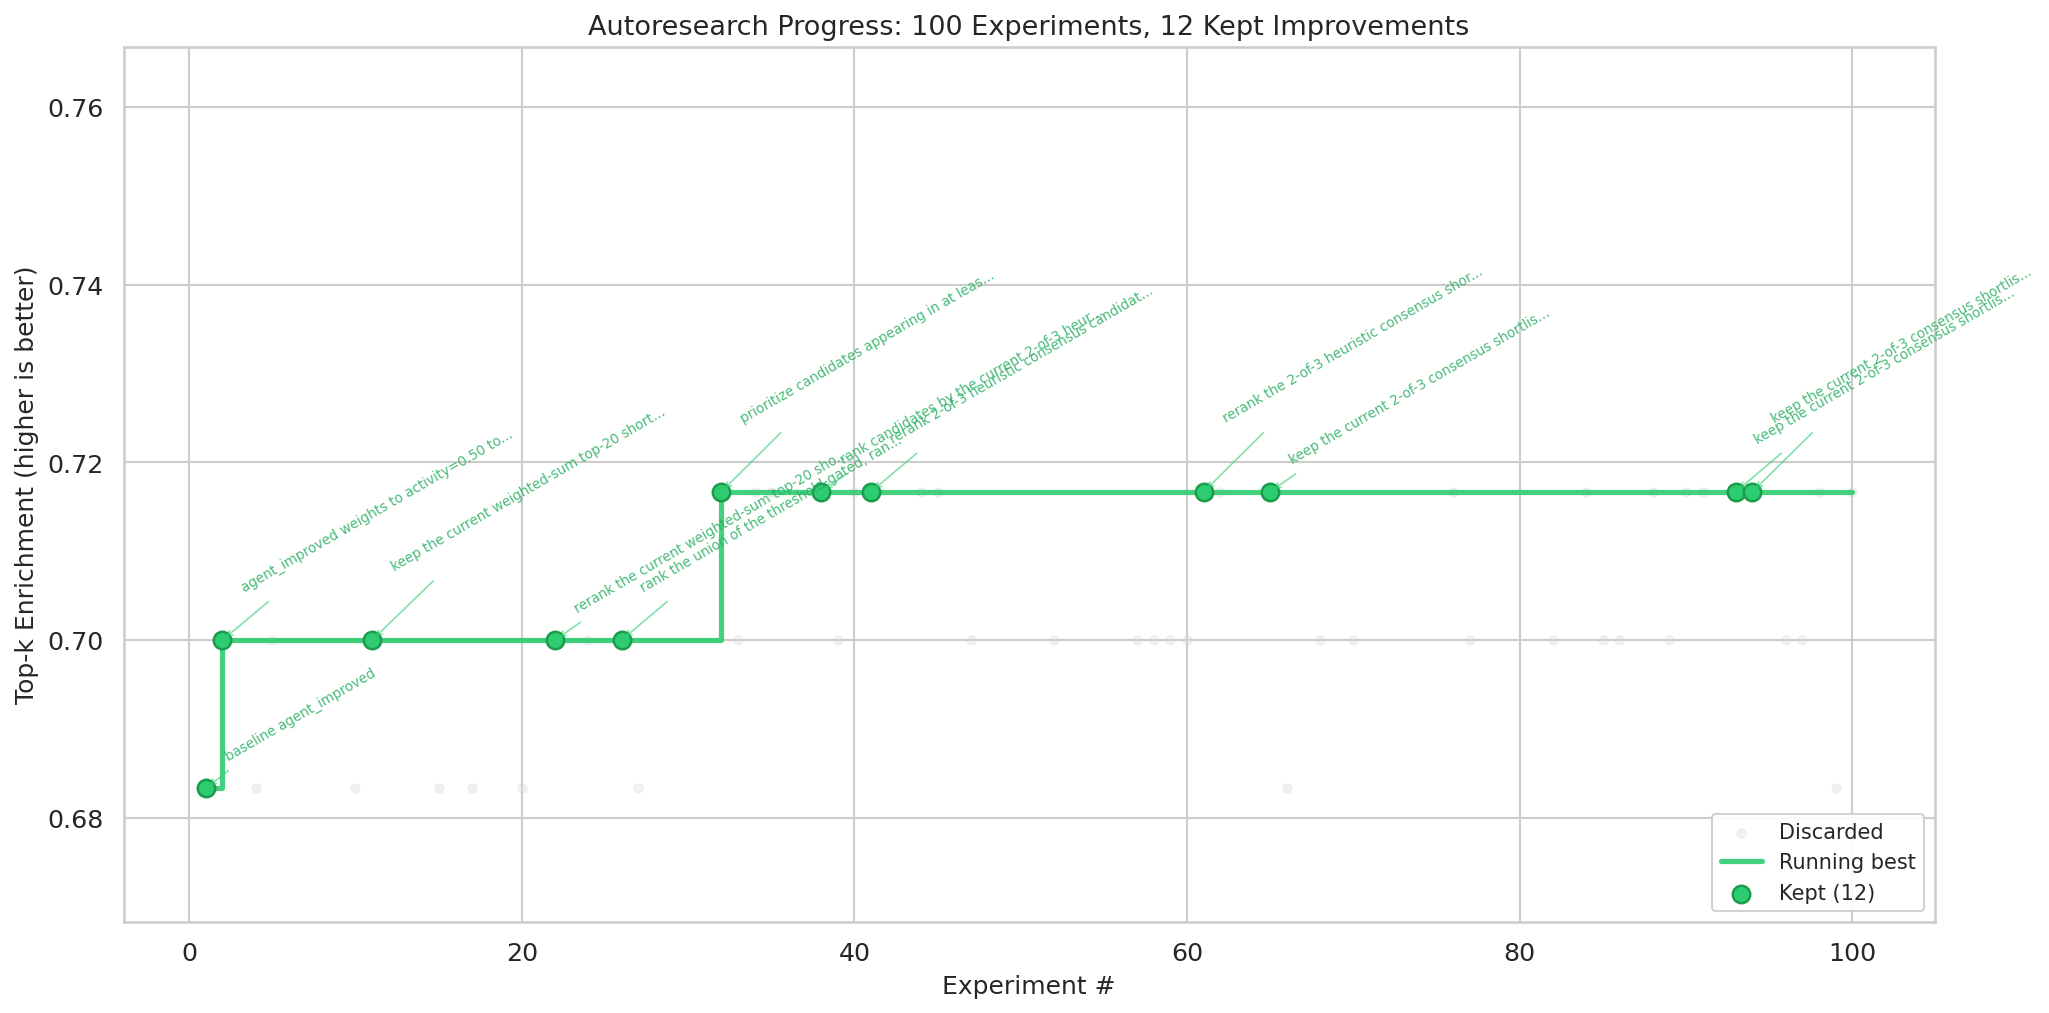
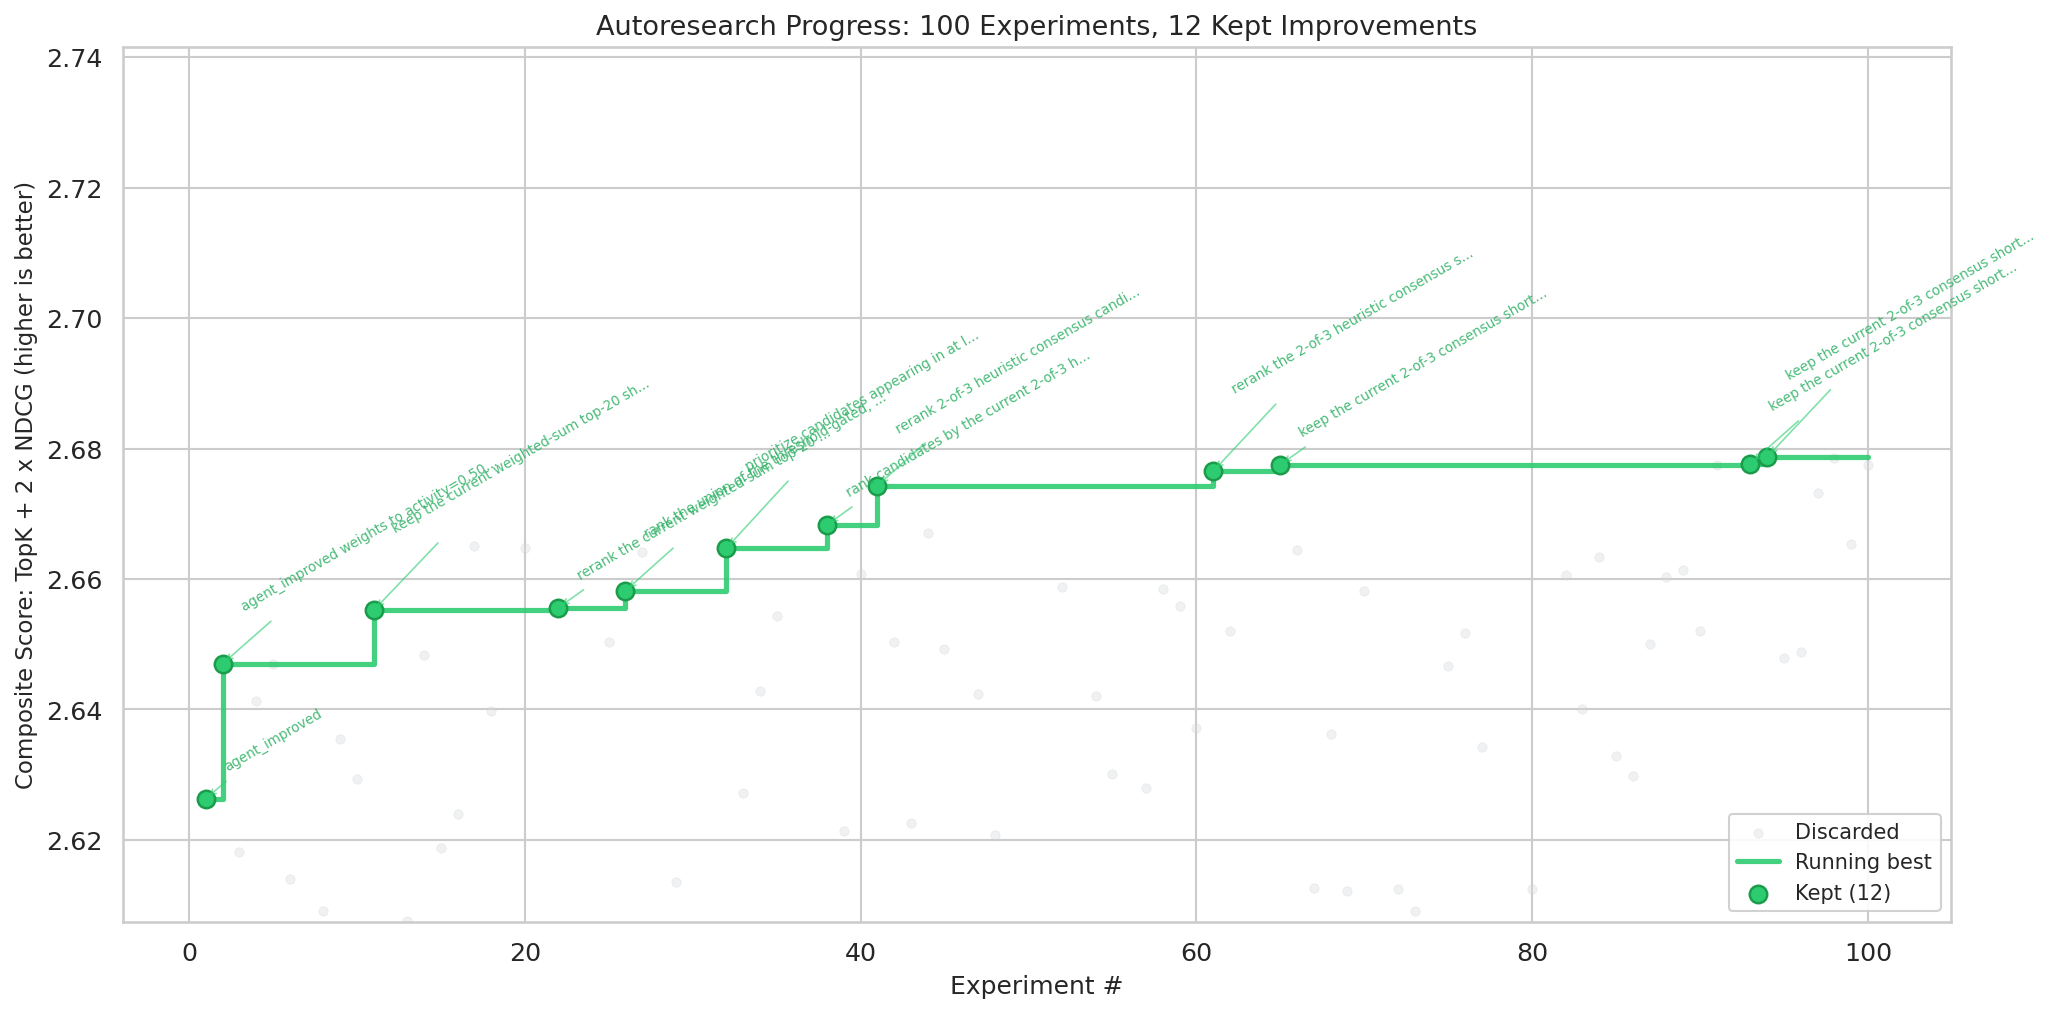
feat: fig2 composite score (TopK + 2*NDCG) gives 12 distinct stairs
All 12 keeps now at unique monotonically increasing heights. Three
major TopK jumps visible as big steps, nine NDCG refinements as
smaller sub-steps. Karpathy-style with annotations.

diff --git a/src/analysis.py b/src/analysis.py
@@ -594,17 +594,28 @@ def figure2_loop_trajectory():
     results = pd.read_csv(results_path, sep="\t")
     results["iteration"] = range(1, len(results) + 1)
     results["topk_enrichment"] = results["topk_enrichment"].astype(float)
+    results["ndcg"] = results["ndcg"].astype(float)
+
+    # Composite score: TopK (primary) + 2*NDCG (tiebreaker).
+    # Weight=2 ensures every keep is monotonically increasing while
+    # keeping TopK jumps as the dominant visual feature.
+    NDCG_WEIGHT = 2.0
+    results["composite"] = (results["topk_enrichment"]
+                            + NDCG_WEIGHT * results["ndcg"])
 
     keeps = results[results["status"] == "keep"].copy()
     n_keep = len(keeps)
     n_discard = (results["status"] == "discard").sum()
     n_total = len(results)
 
+    # Running best (composite)
+    running_best = results["composite"].cummax()
+
     # Shorten descriptions for annotation labels
-    def _short_desc(desc, max_len=45):
+    def _short_desc(desc, max_len=42):
         desc = str(desc)
-        # Strip common prefixes
-        for prefix in ["changed agent_improved to ", "increased ", "added "]:
+        for prefix in ["changed agent_improved to ", "increased ",
+                       "added ", "baseline "]:
             if desc.lower().startswith(prefix):
                 desc = desc[len(prefix):]
                 break
@@ -619,25 +630,20 @@ def figure2_loop_trajectory():
     if mask_discard.any():
         ax.scatter(
             results.loc[mask_discard, "iteration"],
-            results.loc[mask_discard, "topk_enrichment"],
+            results.loc[mask_discard, "composite"],
             c="#d5d8dc", s=20, zorder=1, edgecolors="#c0c5c9",
             linewidth=0.3, alpha=0.35, label="Discarded",
         )
 
-    # Green step line connecting keeps only (running best staircase)
+    # Green step line connecting keeps (running best staircase)
     if len(keeps) > 0:
-        # Build step coordinates: for each keep, hold the value until
-        # the next keep, then step up
         step_x = [keeps["iteration"].iloc[0]]
-        step_y = [keeps["topk_enrichment"].iloc[0]]
+        step_y = [keeps["composite"].iloc[0]]
         for i in range(1, len(keeps)):
-            # Horizontal to the next keep's x
             step_x.append(keeps["iteration"].iloc[i])
             step_y.append(step_y[-1])
-            # Vertical step up
             step_x.append(keeps["iteration"].iloc[i])
-            step_y.append(keeps["topk_enrichment"].iloc[i])
-        # Extend to the end
+            step_y.append(keeps["composite"].iloc[i])
         step_x.append(n_total)
         step_y.append(step_y[-1])
 
@@ -646,7 +652,7 @@ def figure2_loop_trajectory():
 
         # Green circle markers on each keep
         ax.scatter(
-            keeps["iteration"], keeps["topk_enrichment"],
+            keeps["iteration"], keeps["composite"],
             c="#2ecc71", s=70, zorder=3, edgecolors="#1a9c4a",
             linewidth=1.2, marker="o",
             label=f"Kept ({n_keep})",
@@ -655,13 +661,12 @@ def figure2_loop_trajectory():
         # Annotate each keep with short description (angled)
         for i, (_, row) in enumerate(keeps.iterrows()):
             label = _short_desc(row.get("description", ""))
-            # Alternate annotation offset to reduce overlap
-            y_off = 12 + (i % 3) * 10
+            y_off = 12 + (i % 3) * 12
             x_off = 8
 
             ax.annotate(
                 label,
-                xy=(row["iteration"], row["topk_enrichment"]),
+                xy=(row["iteration"], row["composite"]),
                 xytext=(x_off, y_off), textcoords="offset points",
                 fontsize=6.5, color="#27ae60", alpha=0.85,
                 rotation=30, ha="left", va="bottom",
@@ -669,19 +674,20 @@ def figure2_loop_trajectory():
                                 lw=0.8, alpha=0.6),
             )
 
-    # Y-axis: zoom to the action range (higher is better, flipped vs Karpathy)
+    # Y-axis: zoom to keeps range
     if len(keeps) > 0:
-        y_min = keeps["topk_enrichment"].min()
-        y_max = keeps["topk_enrichment"].max()
+        y_min = keeps["composite"].min()
+        y_max = keeps["composite"].max()
     else:
-        y_min = results["topk_enrichment"].min()
-        y_max = results["topk_enrichment"].max()
+        y_min = results["composite"].min()
+        y_max = results["composite"].max()
     y_range = y_max - y_min
-    y_pad = max(y_range * 1.5, 0.02)
+    y_pad = max(y_range * 1.2, 0.02)
     ax.set_ylim(y_min - y_pad * 0.3, y_max + y_pad)
 
     ax.set_xlabel("Experiment #", fontsize=12)
-    ax.set_ylabel("Top-k Enrichment (higher is better)", fontsize=12)
+    ax.set_ylabel("Composite Score: TopK + 2 x NDCG (higher is better)",
+                  fontsize=11)
     ax.set_title(f"Autoresearch Progress: {n_total} Experiments, "
                  f"{n_keep} Kept Improvements", fontsize=13)
     ax.legend(loc="lower right", fontsize=10, framealpha=0.9)
